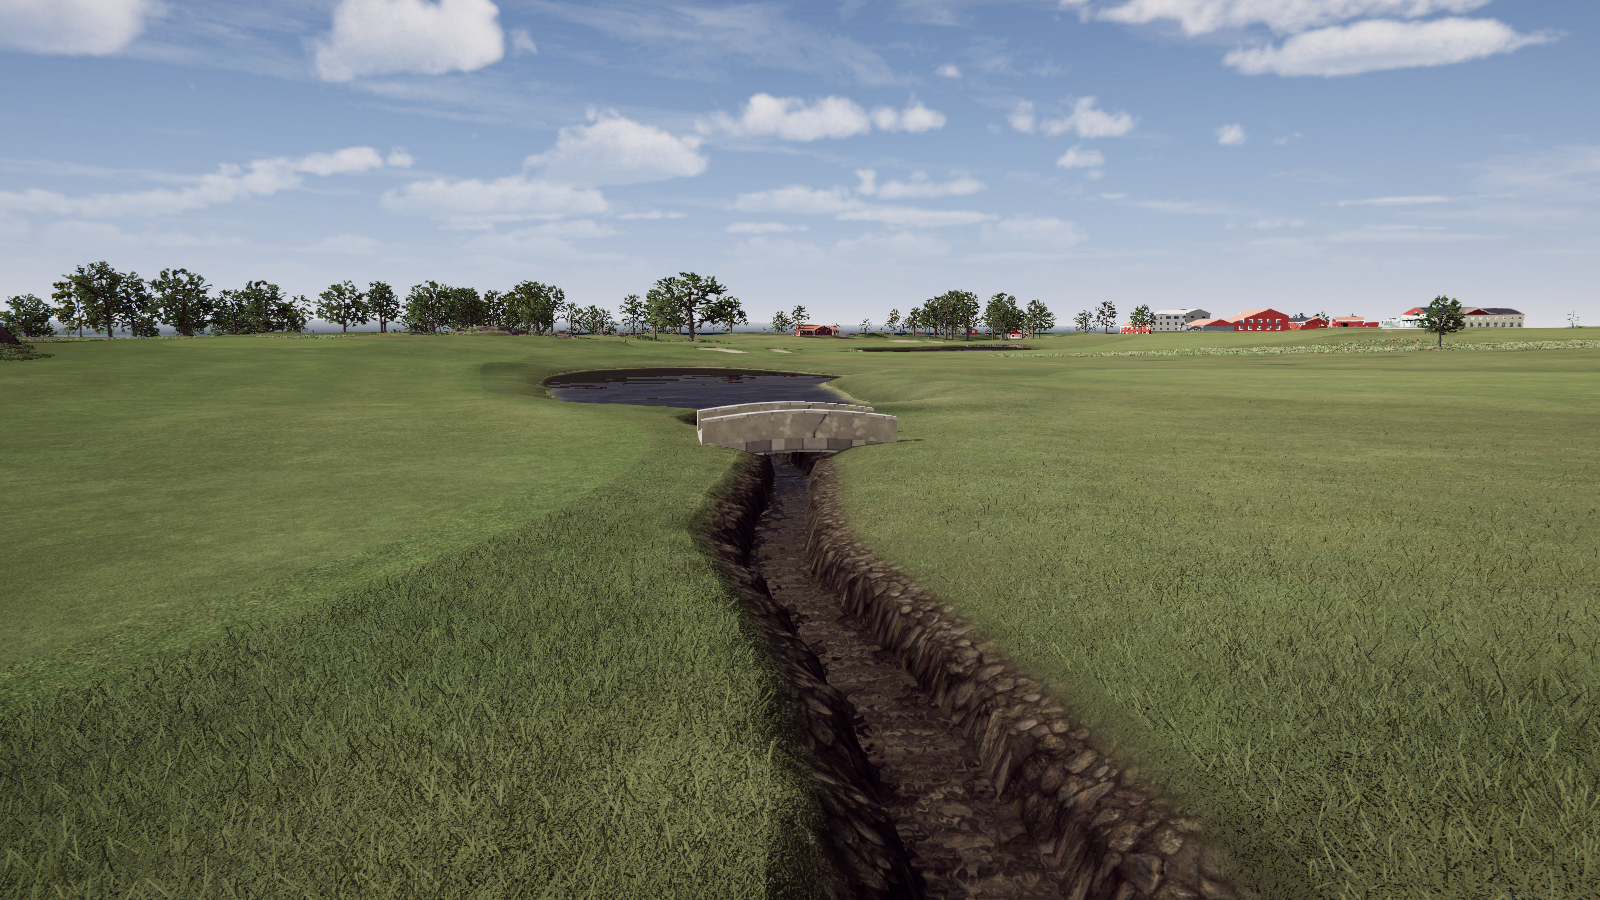
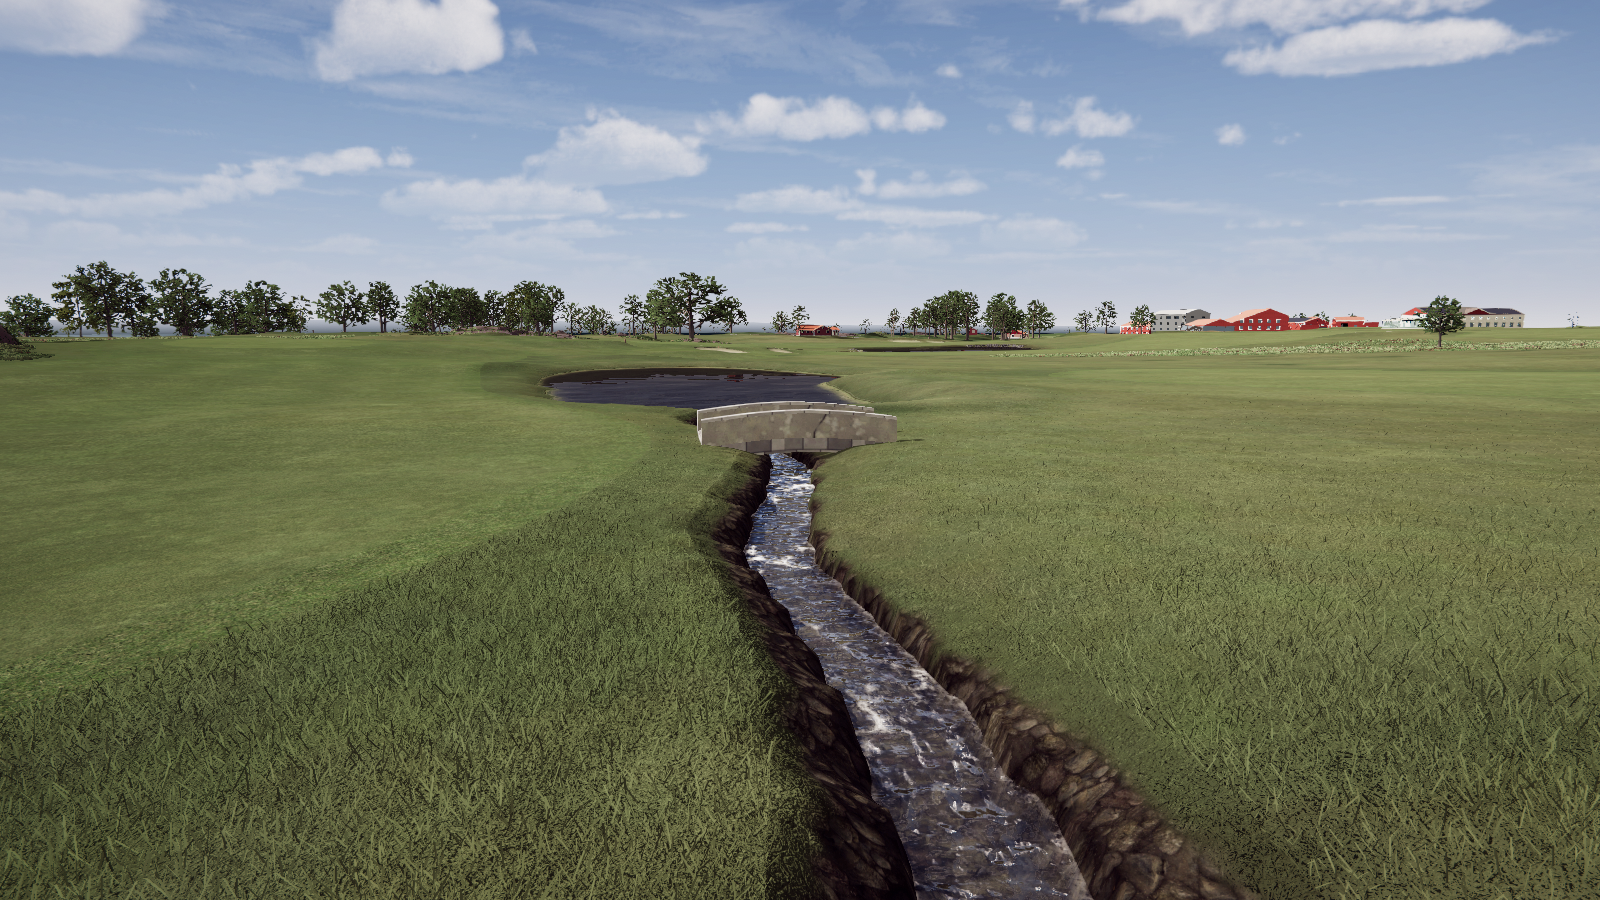
feat(omberg): hole 17's brook - black paint stops 0.1 m under the grass, its own R.A.M. water copy in the ponds' colours, water 10 cm higher (ramWaterMaterial / ramAboveBedM on a creek feature)

diff --git a/unity/Editor/GolfMap/GolfMapCreeks.cs b/unity/Editor/GolfMap/GolfMapCreeks.cs
@@ -85,6 +85,11 @@ namespace GolfMap.Editor
             public List<Vector2> fallsAt = new List<Vector2>();
             // The look for this creek alone (the feature's ramWater: lake|profile), else the import's.
             public string water;
+            // An asset path of a material this creek alone wears (the feature's ramWaterMaterial), over `water`: Omberg's hole 17
+            // brook, a course copy of R.A.M.'s water tuned to blend with the ponds beside it.
+            public string waterMaterial;
+            // The water's height over this creek's lowest ground, instead of the import's aboveBedM (the feature's ramAboveBedM).
+            public float aboveBedM = float.NaN;
             public List<Vector4> points = new List<Vector4>();
         }
 
@@ -154,6 +159,7 @@ namespace GolfMap.Editor
             var rows = new List<object>();
             var imported = new List<GameObject>();
             var perCreek = new Dictionary<GameObject, string>();
+            var ownMaterial = new Dictionary<GameObject, string>();
             int created = 0, updated = 0;
 
             if (!dryRun)
@@ -220,6 +226,7 @@ namespace GolfMap.Editor
                 EditorUtility.SetDirty(spline);
                 imported.Add(go);
                 if (c.water == "lake" || c.water == "profile") perCreek[go] = c.water;
+                if (!string.IsNullOrEmpty(c.waterMaterial)) ownMaterial[go] = c.waterMaterial;
             }
 
             // Creeks no longer in the export (not when only some were refitted).
@@ -228,7 +235,7 @@ namespace GolfMap.Editor
             Dictionary<string, object> water = null;
             if (!dryRun)
             {
-                water = Wear(imported, fit.water, course, splineType, profileType, perCreek);
+                water = Wear(imported, fit.water, course, splineType, profileType, perCreek, ownMaterial);
                 foreach (var go in existing.Values) Undo.DestroyObjectImmediate(go);
                 Undo.CollapseUndoOperations(undoGroup);
                 EditorSceneManager.MarkSceneDirty(scene);
@@ -262,7 +269,8 @@ namespace GolfMap.Editor
                     id = o.String("id"), profile = o.String("profile") ?? "Small Stream Profile", source = o.String("source") ?? "",
                     widthM = (float)o.Number("widthM", 2), lengthM = (float)o.Number("lengthM"), fallM = (float)o.Number("fallM"),
                     held = o.Number("stretches", 0) > 1 || o.Number("falls", 0) > 0,
-                    water = o.String("water"),
+                    water = o.String("water"), waterMaterial = o.String("waterMaterial"),
+                    aboveBedM = (float)o.Number("aboveBedM", float.NaN),
                 };
                 foreach (var q in (o.Array("fallsAt") ?? new List<object>()).OfType<List<object>>())
                 {
@@ -337,9 +345,10 @@ namespace GolfMap.Editor
         // material, reflecting the nearest lake's probe) or each spline's profile
         // material. The parts R.A.M. splits a long spline into follow the parent.
         static Dictionary<string, object> Wear(List<GameObject> creeks, string water, GolfMapCourse course, Type splineType, Type profileType,
-            Dictionary<GameObject, string> perCreek = null)
+            Dictionary<GameObject, string> perCreek = null, Dictionary<GameObject, string> ownMaterial = null)
         {
             perCreek = perCreek ?? new Dictionary<GameObject, string>();
+            ownMaterial = ownMaterial ?? new Dictionary<GameObject, string>();
             Func<GameObject, string> waterOf = go => { string w; return perCreek.TryGetValue(go, out w) ? w : water; };
             var result = new Dictionary<string, object> { { "water", water }, { "creeks", creeks.Count } };
             if (perCreek.Count > 0) result["ownWater"] = perCreek.ToDictionary(kv => kv.Key.name, kv => (object)kv.Value);
@@ -372,6 +381,13 @@ namespace GolfMap.Editor
                     // A creek with its own R.A.M. look wears the course's copy of the profile's material (made once,
                     // then kept: its cascade and foam are tuned there, the package's material is left alone).
                     if (perCreek.ContainsKey(go) && material != null) material = ProfileLook(course, material);
+                }
+                string ownPath;
+                if (ownMaterial.TryGetValue(go, out ownPath))
+                {
+                    var own = AssetDatabase.LoadAssetAtPath<Material>(ownPath);
+                    if (own != null) material = own;
+                    else result["missingWaterMaterial"] = ownPath;
                 }
                 var centre = go.GetComponent<Renderer>() != null ? go.GetComponent<Renderer>().bounds.center : go.transform.position;
                 var probe = probes.OrderBy(p => (p.transform.position - centre).sqrMagnitude).FirstOrDefault();
@@ -537,13 +553,14 @@ namespace GolfMap.Editor
 
             // Heights: over the highest bed each point stands for.
             var y = new float[n];
+            float above = float.IsNaN(c.aboveBedM) ? o.aboveBedM : c.aboveBedM;
             for (int i = 0; i < n; i++)
             {
                 float highest = float.NegativeInfinity;
                 for (int k = 0; k < ns; k++)
                     if (stations[k].owner == i && !float.IsNaN(bed[k])) highest = Mathf.Max(highest, bed[k]);
                 y[i] = float.IsNegativeInfinity(highest) ? pts[i].y
-                    : c.held ? Mathf.Max(pts[i].y, highest + o.aboveBedM) : highest + o.aboveBedM;
+                    : c.held ? Mathf.Max(pts[i].y, highest + above) : highest + above;
             }
             // Not forced to fall: held up to the next bump downstream, the water
             // would stand above its banks behind it. Climbs are reported.

diff --git a/unity/Editor/GolfMap/GolfMapVertexPaint.cs b/unity/Editor/GolfMap/GolfMapVertexPaint.cs
@@ -106,6 +106,10 @@ namespace GolfMap.Editor
             public string id, match, channel;
             public Color target;
             public float strength, fadeM;
+            // belowM > 0: paint by depth instead of by distance from the border. The grass level is the height of the mesh's
+            // nearest border vertex (within reachM); vertices less than belowM under it keep their colour, so a grass lip
+            // stands at the top, and the paint is full from belowM + softM down.
+            public float belowM = -1f, softM = 0.08f, reachM = 1.5f;
             public string albedo, normal;     // material: asset paths, null = keep the material
             public float tileM = 1f;
             public Color tint = Color.white;
@@ -131,7 +135,11 @@ namespace GolfMap.Editor
                     channel = (o.String("channel") ?? "black").ToLowerInvariant(),
                     strength = Mathf.Clamp01((float)o.Number("strength", 1)),
                     fadeM = (float)o.Number("fadeM", 0.5),
+                    belowM = (float)o.Number("belowM", -1),
+                    softM = (float)o.Number("softM", 0.08),
+                    reachM = (float)o.Number("reachM", 1.5),
                 };
+                if (r.belowM > 0 && (r.softM <= 0 || r.reachM <= 0)) throw new InvalidOperationException(where + ": softM and reachM must be > 0.");
                 if (string.IsNullOrEmpty(r.match)) throw new InvalidOperationException(where + ": an object rule needs match (a name substring).");
                 if (r.fadeM <= 0) throw new InvalidOperationException(where + ": fadeM must be > 0.");
                 r.target = ChannelColor(r.channel, where);
@@ -422,7 +430,7 @@ namespace GolfMap.Editor
                 PointGrid ownEdge = null;
                 if (mine.Count > 0)
                 {
-                    ownEdge = new PointGrid(mine.Max(r => r.fadeM));
+                    ownEdge = new PointGrid(mine.Max(r => r.belowM > 0 ? r.reachM : r.fadeM));
                     foreach (var q in BoundaryPoints(f)) ownEdge.Add(q);
                 }
                 for (int i = 0; i < local.Length; i++)
@@ -431,8 +439,19 @@ namespace GolfMap.Editor
                     var p = f.transform.TransformPoint(local[i]);
                     foreach (var r in mine)
                     {
-                        float d = ownEdge.NearestXZ(p, r.fadeM);
-                        float w = r.strength * (d == float.MaxValue ? 1f : Smooth(0, r.fadeM, d));
+                        float w;
+                        if (r.belowM > 0)
+                        {
+                            Vector3 top;
+                            // no border vertex in reach: far from any edge, fully inside
+                            float depth = ownEdge.NearestXZ(p, r.reachM, out top) == float.MaxValue ? float.MaxValue : top.y - p.y;
+                            w = r.strength * Smooth(r.belowM, r.belowM + r.softM, depth);
+                        }
+                        else
+                        {
+                            float d = ownEdge.NearestXZ(p, r.fadeM);
+                            w = r.strength * (d == float.MaxValue ? 1f : Smooth(0, r.fadeM, d));
+                        }
                         if (w <= 0.001f) continue;
                         var t = r.target; t.a = c.a; c = Color.Lerp(c, t, w);
                     }
@@ -993,8 +1012,11 @@ namespace GolfMap.Editor
             }
             // Distance on the XZ plane to the nearest point, or float.MaxValue beyond r
             // (r must not exceed the cell size).
-            public float NearestXZ(Vector3 p, float r)
+            public float NearestXZ(Vector3 p, float r) { Vector3 hit; return NearestXZ(p, r, out hit); }
+
+            public float NearestXZ(Vector3 p, float r, out Vector3 hit)
             {
+                hit = Vector3.zero;
                 float best = r * r;
                 bool found = false;
                 int cx = Mathf.FloorToInt(p.x / cell), cz = Mathf.FloorToInt(p.z / cell);
@@ -1002,7 +1024,7 @@ namespace GolfMap.Editor
                     for (int dz = -1; dz <= 1; dz++)
                     {
                         List<Vector3> l; if (!cells.TryGetValue(Key(cx + dx, cz + dz), out l)) continue;
-                        foreach (var q in l) { float x = q.x - p.x, z = q.z - p.z, d2 = x * x + z * z; if (d2 <= best) { best = d2; found = true; } }
+                        foreach (var q in l) { float x = q.x - p.x, z = q.z - p.z, d2 = x * x + z * z; if (d2 <= best) { best = d2; found = true; hit = q; } }
                     }
                 return found ? Mathf.Sqrt(best) : float.MaxValue;
             }

diff --git a/pipeline/gspro.py b/pipeline/gspro.py
@@ -6927,6 +6927,8 @@ def cmd_creeks(bbox, db_path: Path, course_ident: str, dem_path: Path, sidecar_p
             "id": f"feature:{r['id']}",
             "profile": str(attrs.get("ramProfile") or DEFAULT_RAM_PROFILE),
             **({"water": str(attrs["ramWater"])} if attrs.get("ramWater") in ("lake", "profile") else {}),
+            **({"waterMaterial": str(attrs["ramWaterMaterial"])} if attrs.get("ramWaterMaterial") else {}),
+            **({"aboveBedM": float(attrs["ramAboveBedM"])} if isinstance(attrs.get("ramAboveBedM"), (int, float)) else {}),
             "widthM": round(width, 2),
             "lengthM": round(float(prof.s[-1]), 1),
             "fallM": round(float(c_z[0] - c_z[-1]), 2),

diff --git a/docs/gspro/ombergs-golfklubb/creek-beds.md b/docs/gspro/ombergs-golfklubb/creek-beds.md
@@ -29,3 +29,10 @@ it imports `shape_layers` once) -> `golfmap.meshes.sync` / refresh -> `golfmap.p
 
 **Another creek**: add its corridor as another op in the same layer (a new name `brook_<something>`), `--feature <shape>` the dig.
 **Tune**: bed width = the corridor buffer; depth = `--depth`; pebbles/tint in `paint.json`, then `golfmap.paint.apply`.
+
+**The water in it** (2026-10-19): the brook wears its own copy of R.A.M.'s water material, `Creek water (hole 17).mat` in the
+course's Creeks folder (a copy of `Creek water (Small Stream Profile).mat`; colours `_DeepColor` 0.045/0.05/0.065 and `_ShalowColor`
+0.07/0.075/0.09, `_Foam` 0.5, `_FoamCascade` 4, `_WaterSpeed` 0.3, `_Reflection` 0.45: the ponds' dark navy-grey, little white water). It is set on the feature,
+so every `creeks.import` keeps it: `ramWaterMaterial` (asset path) and `ramAboveBedM` 0.25 (the water 0.25 m over the bed, +0.10 m on the
+import's 0.15) -> the creeks export (`waterMaterial`, `aboveBedM`) -> `GolfMapCreeks`. The black paint stops 0.1 m under the grass level (paint.json
+`belowM` 0.1, `softM` 0.08), so a grass lip stands at the top of the bank.
